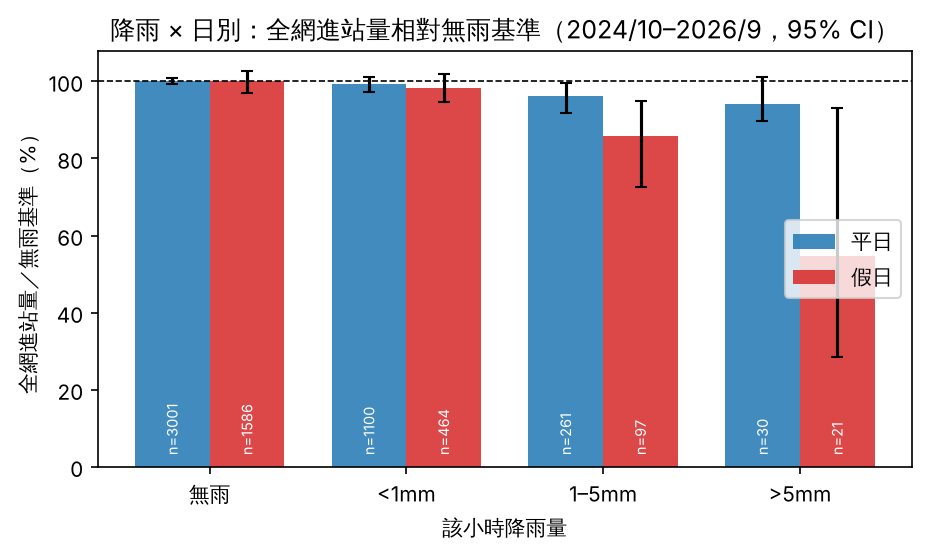
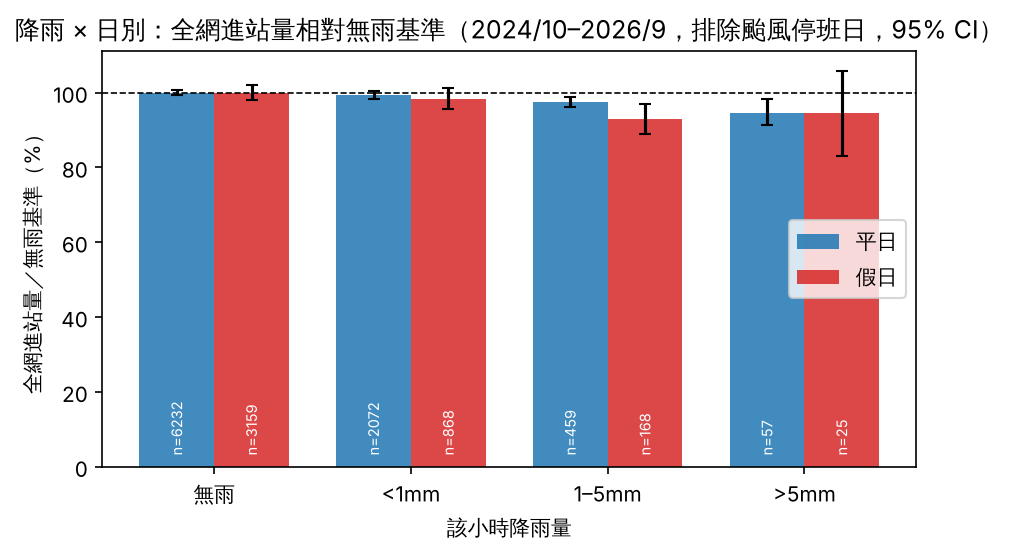
A: EDA on 2 years (typhoon days excluded from rain analysis), forecast diagnostics, eda_summary.md

diff --git a/src/11_eda.py b/src/11_eda.py
@@ -283,16 +283,23 @@ def main():
     w = load_weather("obs")
     if w is not None:
         tabs = []
-        for period, d in [("2025-10~2026-09", main_net), ("2024-10~2026-09", net)]:
+        # typhoon work/school-suspension days are excluded (they confound heavy rain with closures);
+        # a version including them is kept for comparison
+        tyf = EXTERNAL / "typhoon_days.csv"
+        ty = set(pd.to_datetime(pd.read_csv(tyf)["date"])) if tyf.exists() else set()
+        nt = net[~net.date.isin(ty)]
+        for period, d in [("2025-10~2026-09", nt[nt.ts >= MAIN_START]),
+                          ("2025-10~2026-09 含颱風停班日（=進度報告定義）", main_net), ("2024-10~2026-09", nt),
+                          ("2024-10~2026-09 含颱風停班日", net)]:
             t, df = rain_effect(d, w, period)
             tabs.append(t)
-            if period.startswith("2025"):
-                fig_rain(t, "eda_rain_ratio.png", "降雨 × 日別：全網進站量相對無雨基準（2025/10–2026/9，95% CI）")
+            if period == "2025-10~2026-09":
+                fig_rain(t, "eda_rain_ratio.png", "降雨 × 日別：全網進站量相對無雨基準（2025/10–2026/9，排除颱風停班日，95% CI）")
                 rain_by_hour_heat(df)
                 NUM["rain_ratio_main"] = t[["day_type", "rain", "n_hours", "ratio_mean", "ci_low",
                                             "ci_high"]].round(3).to_dict("records")
         pd.concat(tabs).to_csv(RESULTS / "eda_rain_ratio.csv", index=False, float_format="%.3f")
-        fig_rain(tabs[1], "eda_rain_ratio_2y.png", "降雨 × 日別：全網進站量相對無雨基準（2024/10–2026/9，95% CI）")
+        fig_rain(tabs[2], "eda_rain_ratio_2y.png", "降雨 × 日別：全網進站量相對無雨基準（2024/10–2026/9，排除颱風停班日，95% CI）")
         wf = load_weather("forecast")
         if wf is not None:
             m = w.merge(wf, on="ts", suffixes=("_obs", "_fc")).dropna(subset=["precip_obs", "precip_fc"])

diff --git a/results/eda_summary.md b/results/eda_summary.md
@@ -1,0 +1,75 @@
+# 工作流 A：外部資料與 EDA 摘要
+
+重現：`python src/10_weather.py`（離線可跑，讀已 commit 的原始 JSON）→ `python src/10_events_merge.py` → `python src/10_events.py` → `python src/11_eda.py`。
+數值表：`results/eda_*.csv`；圖：`figures/eda_*.png`；關鍵數字：`results/eda_summary_numbers.json`。
+
+## 1. 資料產出與覆蓋率
+
+| 檔案 | 內容 | 期間／覆蓋 |
+|---|---|---|
+| `data/external/weather_hourly.csv` | 觀測（再分析）`ts,temp,precip,rh` | 2024-10-01 ~ 2026-09-30，17,520 小時，缺值 0%；主研究期數值與 main 完全相同 |
+| `data/external/weather_forecast_hourly.csv` | 預報（JMA 模式）同欄位 | 同上，缺值 0% |
+| `data/external/weather_forecast_hourly_ecmwf.csv` | 預報（ECMWF IFS 0.25°），敏感度分析用 | 同上 |
+| `data/external/events.csv` | 活動清單 574 個活動日（name, venue, date, start/end, scale, source_url, confidence, stations） | 2024-10-04 ~ 2026-09-27 |
+| `data/external/events_station_hour.csv` | `ts,station,event_flag,event_scale,event_arrive,event_depart,n_events` | 8,322 站時、22 站 |
+| `data/external/typhoon_days.csv` | 台北市停班停課日 | 5 天 |
+| `data/external/venue_station_map.csv` | 場館 → 捷運站與權重 | 7 場館 |
+
+`make_features` 合併驗證（h=2）：主研究期 weather 非空 99.98%、events 100%；hist 面板 weather 99.99%、events 100%（缺的是最後 1–2 小時，目標時間超出資料範圍）。
+
+### 天氣來源與限制
+- 氣象署測站（466920）需要開放資料授權碼（未取得），CODiS 在建置環境無法連線，因此使用 **Open-Meteo**（無需金鑰），格點 lat 25.0615、lon 121.5194，與 main 的主研究期檔案相同。
+- **重要發現**：在這個格點，Open-Meteo archive 的 `best_match`（我們當作「觀測」）和 historical-forecast 的 `best_match` **逐小時完全相同**（都是由 ECMWF IFS 9 km 預報前幾小時拼接而成）。所以「觀測」其實是高解析度模式分析值，不是測站實測；best_match 預報也不能當作獨立的預報。
+- 因此預報改用 **JMA（日本氣象廳 MSM/GSM）** 的 historical forecast，這個模式和觀測代理值無關。預報 vs 觀測：氣溫 MAE 0.92 °C，降雨 MAE 0.27 mm，降雨相關 0.42；降雨 ≥1 mm 命中率 0.44、誤報率 0.55（ECMWF IFS 0.25°：命中 0.71、誤報 0.33，因為和觀測同模式家族，誤差偏低）。`results/eda_forecast_vs_obs.csv`。
+- **發布延遲假設**：historical-forecast 由逐次預報的前幾小時拼接（JMA MSM 每 3 小時一次，約 2–3 小時後可取得），每個小時的值大約來自 0–6 小時前發布的預報，視為預測起點 t 可取得的 t+1/t+2 預報。若要更嚴格的「t 之前發布」預報，可用 Open-Meteo previous-runs API（`*_previous_day1`），但該網域在建置環境被封鎖。
+
+### 活動來源與限制
+- 以 WebSearch 及 zh.wikipedia（中職 35–37 年逐場賽程）蒐集，每筆都有 `source_url` 與 `confidence`（high 275／medium 254／low 45）。原始清單在 `data/external/events_raw/`，合併與修正腳本為 `src/10_events_merge.py`。
+- 場館 → 車站（權重）：大巨蛋→國父紀念館 1.0／市政府 0.4／忠孝敦化 0.3；小巨蛋→台北小巨蛋 1.0／南京復興 0.4；北流→昆陽 1.0／南港 0.4；南港展覽館→南港展覽館 1.0／南港軟體園區 0.2；世貿→台北101/世貿 1.0／市政府 0.4／象山 0.3；跨年→信義區 6 站；大稻埕→北門／大橋頭站；燈節與路跑依年度地點填 `stations` 欄。
+- 影響時段：開始前 2 小時記為 `event_arrive`（出站），預估結束後 2 小時記為 `event_depart`（進站）；6 小時以上的活動（展覽）整段都標記。`event_scale` = 規模估計 × 權重（人）。
+- 中職大巨蛋賽程已和維基百科逐場表對齊（2025 年 66 場、2026 年 58 場全數納入）。仍不完整：北流（2024-11、2025-10 偏少）、世貿小型展覽、小巨蛋非演唱會活動；燈節、部分展覽人數為估計值。
+- **資料驅動的漏列檢查**：沒有登錄活動、但晚間進站量 ≥ 基準 2 倍的日子列在 `results/eda_event_candidates_unlisted.csv`（大巨蛋 1、小巨蛋 11、北流 10、南港展覽館 15）。這些只供人工檢查，未加入 events.csv。大巨蛋原本有 11 個候選日，補齊中職賽程與 TWICE 2026-03-20 等活動後只剩 2025-10-10（國慶，推測是信義區活動）。
+
+## 2. 主要發現
+
+### 2.1 日別與時段（圖 `eda_hourly_profile.png`）
+平日日均進站 229.2 萬、假日 175.5 萬（76.6%），與進度報告一致；平日尖峰在 8 時與 17–18 時，假日沒有早高峰。
+
+### 2.2 降雨 × 日別（`eda_rain_ratio.csv`、圖 `eda_rain_ratio*.png`）
+比例 = 全網進站量 ÷ 同日別、同小時的無雨小時平均（6–23 時）；95% CI 用「以日為單位」的 cluster bootstrap。
+
+| 期間 | 日別 | 1–5 mm | >5 mm（小時數／天數） |
+|---|---|---|---|
+| 主研究期，**含颱風停班日**（= 進度報告定義） | 平日 | 0.963 [0.92, 1.00] | 0.942 [0.90, 1.02]（30／15） |
+| 同上 | 假日 | 0.859 [0.73, 0.95] | **0.547 [0.28, 0.93]（21／8）** |
+| 主研究期，排除颱風停班日 | 平日 | 0.980 [0.96, 1.00] | 0.942 [0.90, 1.01]（30／15） |
+| 同上 | 假日 | 0.915 [0.87, 0.96] | 0.818 [0.70, 0.96]（13／7） |
+| 2024-10~2026-09，排除颱風停班日 | 平日 | 0.974 [0.96, 0.99] | 0.946 [0.91, 0.98]（57／28） |
+| 同上 | 假日 | 0.930 [0.90, 0.97] | 0.947 [0.82, 1.06]（25／13） |
+
+- 進度報告的數字可以精確重現（假日 >5 mm 55%、平日 94%），但**假日 55% 主要來自巴威颱風停班的週六（2026-07-11）**，信賴區間很寬（0.28–0.93，只有 8 天）。排除颱風停班日後，主研究期假日 >5 mm 變成 82%；兩年資料則是 95%，和無雨沒有顯著差異。
+- 比較穩健的結論：中雨（1–5 mm）讓假日人流降 7–9%、平日降 2–3%（兩年資料，CI 不含 1）；平日即使 >5 mm 也只降約 5%。「雨天抑制非通勤人流」的方向成立，但幅度比進度報告小，而且大雨的極端下降其實是颱風停班造成的。建模時颱風停班日應該當成獨立特徵（或排除），不應讓降雨特徵吸收這個效果。
+- 加上同月份基準（控制季節）後結論不變（`ratio_month_ctrl` 欄）。
+
+### 2.3 大型活動（`eda_event_uplift.csv`、圖 `eda_event_station_profiles.png`）
+和同站、同日別、同小時、同季、非活動日的基準比較：
+
+| 場館 → 站 | 活動日數 | 開場前 2 小時出站倍數 | 散場後 2 小時進站倍數 | 每場額外進站（人） |
+|---|---|---|---|---|
+| 大巨蛋 → 國父紀念館 | 221 | 2.98 | 3.89 | ≈5,400 |
+| 小巨蛋 → 台北小巨蛋 | 133 | 2.19 | 2.99 | ≈1,800 |
+| 北流 → 昆陽 | 57 | 1.50 | 2.20 | ≈900 |
+| 南港展覽館 | 68 | 1.70 | 1.69 | ≈5,200 |
+| 世貿 → 台北101/世貿 | 43 | 1.17 | 1.21 | ≈1,800 |
+| 大稻埕煙火 → 北門 | 6 | 4.07 | 8.12 | ≈8,400 |
+| 跨年 → 台北101/世貿 | 2 | 2.21 | （深夜基準近 0） | ≈7,600 |
+
+活動對周邊站是很強、可預先得知的訊號（大巨蛋散場時段約 4 倍），而且發生在晚間非尖峰，是 lag 特徵抓不到的。建議 B／D 工作流使用 `event_depart`、`event_scale`。
+
+### 2.4 颱風停班停課（`eda_typhoon_days.csv`、圖 `eda_typhoon_days.png`）
+5 個停班停課日的全網進站量只有同星期幾基準的 8–27%（康芮 2024-10-31 只剩 8%），而且沒有通勤雙峰。測試期 2026-09 沒有颱風日；驗證期 2026-08 也沒有。巴威（2026-07-10/11）在訓練期內。延長回測若涵蓋 2024-10，預測誤差會被這些日子主導，建議分開報告。
+
+## 3. 已知限制
+1. 天氣是模式格點值，不是測站實測；預報的領先時間是近似值（0–6 小時），不是嚴格的「t 之前發布」。
+2. 活動規模多為估計；部分場館（北流、世貿小型展覽）有漏列，已用資料驅動清單標出候選日。
+3. 颱風停班日資料來自新聞，人事行政總處頁面無法直接存取；但 5 天都已用 MRT 運量驟降驗證，其他日子沒有無法解釋的驟降。
